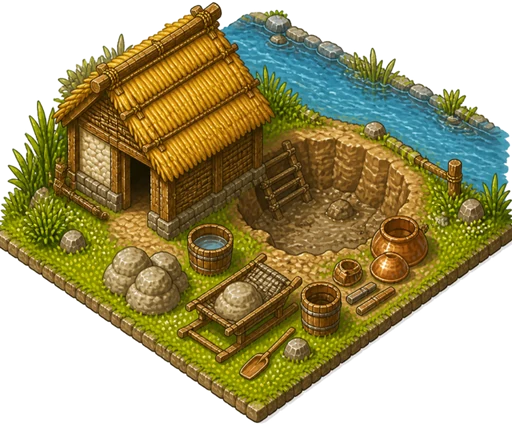
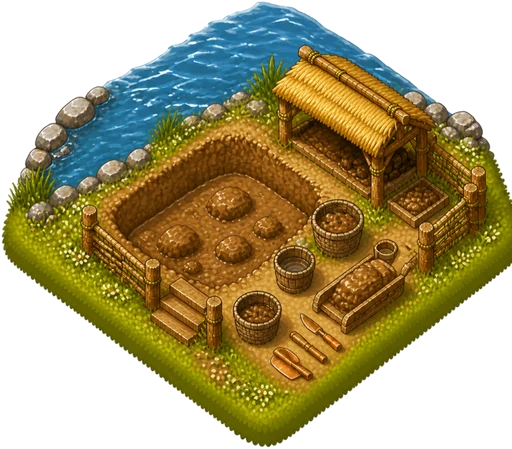
Epochia 130: Lehmgrube mit eigenen Bildern für alle drei Drehungen

diff --git a/neu/js/daten.js b/neu/js/daten.js
@@ -2,7 +2,7 @@
 // Epochia – alle Spieldaten (Zahlen zum Feinjustieren stehen hier oben, die Logik liest nur daraus).
 // Pläne: docs/konzept-neu.md und docs/epoche-1-steinzeit.md
 
-const APP_VERSION = 129;
+const APP_VERSION = 130;
 
 const CONFIG = {
   mapSize: 512,           // Felder je Seite, zentral änderbar (Vielfaches von 16; 64 bis Version 21, 128 bis Version 54 – alte Karten liegen in der Mitte)
@@ -524,7 +524,7 @@ const BUILDINGS = {
     info: 'Hier trifft sich das Dorf: Gemeinschaft im Umkreis und bessere Laune.',
   },
   lehmgrube: {
-    name: 'Lehmgrube', icon: '🟤', size: 2, line: 'ton', tier: 1, stage: 'kupfer', bild: '1-tongrube', views: ['r1', 'r2'],
+    name: 'Lehmgrube', icon: '🟤', size: 2, line: 'ton', tier: 1, stage: 'kupfer', bild: '2-lehmgrube', views: ['r1', 'r2'],
     color: '#a0603a', cost: { holz: 40, werkzeug: 3 }, time: 60, workers: 3, produces: { ton: 6 }, needsWater: true, requires: 'lehmbau',
     info: 'Gräbt Lehm und Ton am Ufer. Muss am Wasser stehen.',
   },

diff --git a/neu/index.html b/neu/index.html
@@ -3,7 +3,7 @@
 <head>
   <meta charset="UTF-8">
   <meta name="viewport" content="width=device-width, initial-scale=1, maximum-scale=1, user-scalable=no, viewport-fit=cover">
-  <meta name="app-version" content="129">
+  <meta name="app-version" content="130">
   <meta name="theme-color" content="#3d7a2a">
   <meta name="color-scheme" content="only light">
   <meta name="apple-mobile-web-app-capable" content="yes">

diff --git a/neu/service-worker.js b/neu/service-worker.js
@@ -1,6 +1,6 @@
 // Epochia – offline spielen. Bei Änderungen die Versionsnummer erhöhen (gleiche Nummer wie
 // APP_VERSION in js/daten.js und <meta name="app-version"> in index.html).
-const CACHE = 'v129';
+const CACHE = 'v130';
 const ASSETS = [
   './',
   'index.html',

diff --git a/docs/epoche-2-bronzezeit.md b/docs/epoche-2-bronzezeit.md
@@ -10,7 +10,7 @@ Zeichen: ✅ entschieden · ❓ offene Frage an Emin · 💡 Vorschlag
 
 Gebaut, ohne Bilder: **Kupferzeit** (Version 60), **Frühe Bronzezeit** (Version 61) und **Späte Bronzezeit** (Version 62). Weiterentwicklungen zeigen das Bild der Vorstufe,
 neue Waren und Forschungen ihr Zeichen. Die 8 neuen Gebäude (Kupfermine, Köhler, Schmelzofen, Zinnwäscherin, Bronzegießer, Handelsplatz, Schmuckmacherin, Fürstenhügel) haben seit Version 65 ein Bild, aber nur die Vorderansicht (beim Drehen gespiegelt, Schnee legt das Spiel selbst darüber).
-Seit Version 111–128 eigene Vorderansichten für Lehmhaus, Hallenhaus, Gemüsegarten, Holzfäller, Steinbruch, Dorfbrunnen, Felsritzer, Kupferschmied, Jagdhütte, Feld, Viehhof, Baumgärtnerin, Weberin, Bronzeschmied, Töpferwerkstatt, Sternkundiger, Heiligen Hain, Kornspeicher und Dorfplatz (das Lagerfeuer wechselt ab der Kupferzeit das Bild) (Stilvorlage: Köhler); die übrigen Weiterentwicklungen zeigen noch die Vorstufe. Die Lehmgrube (Version 116) ist zurückgenommen: Als Gebäude halb im Wasser braucht sie Bilder für alle drei Drehungen wie die Tongrube.
+Seit Version 111–128 eigene Vorderansichten für Lehmhaus, Hallenhaus, Gemüsegarten, Holzfäller, Steinbruch, Dorfbrunnen, Felsritzer, Kupferschmied, Jagdhütte, Feld, Viehhof, Baumgärtnerin, Weberin, Bronzeschmied, Töpferwerkstatt, Sternkundiger, Heiligen Hain, Kornspeicher und Dorfplatz (das Lagerfeuer wechselt ab der Kupferzeit das Bild) (Stilvorlage: Köhler); die übrigen Weiterentwicklungen zeigen noch die Vorstufe. Die Lehmgrube hat seit Version 130 alle drei Drehungen (Vorderseite, r1, r2) mit dem Wasser an denselben Stellen wie die Tongrube.
 Der Händler ist eine Figur mit Ochsen-Zeichen und einer Blase zum Antippen, bis es Bilder gibt.
 
 Noch nicht gebaut: Häuptling-Bild, Bronzezeit-Leisten. Die Erzader kam mit Version 76, die Bronzezeit-Waren in der täglichen Belohnung mit Version 73.
